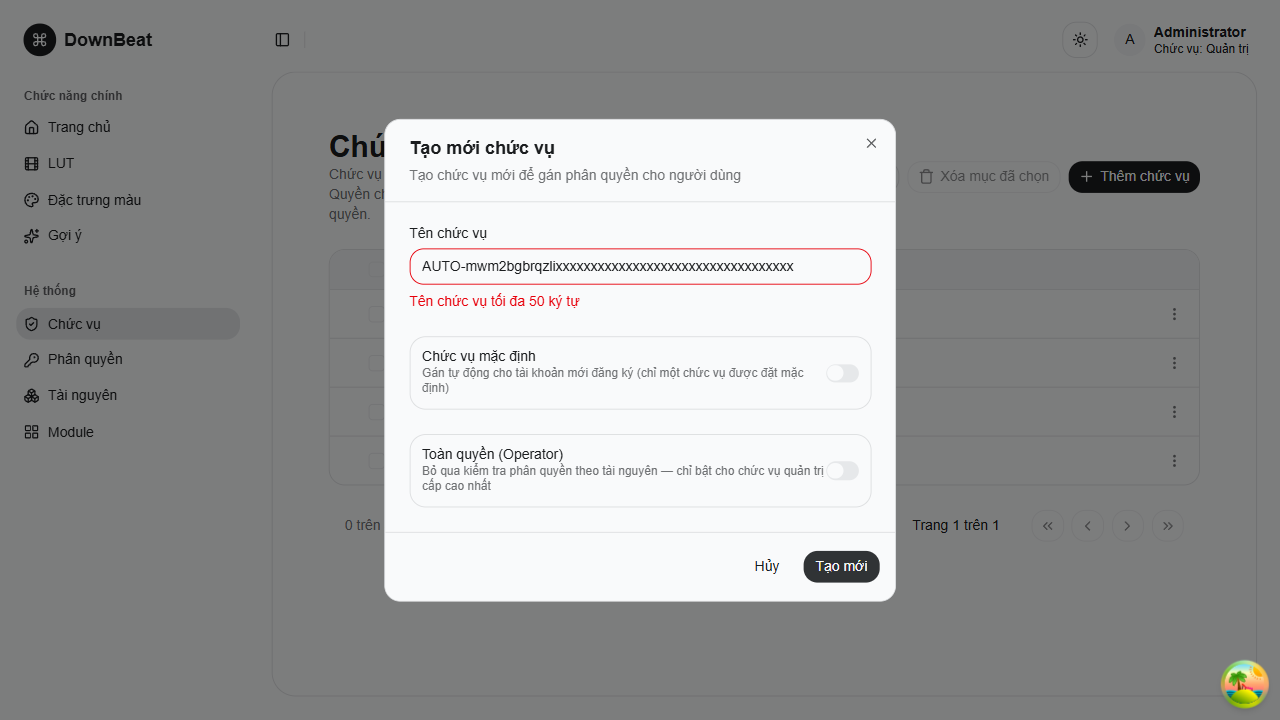
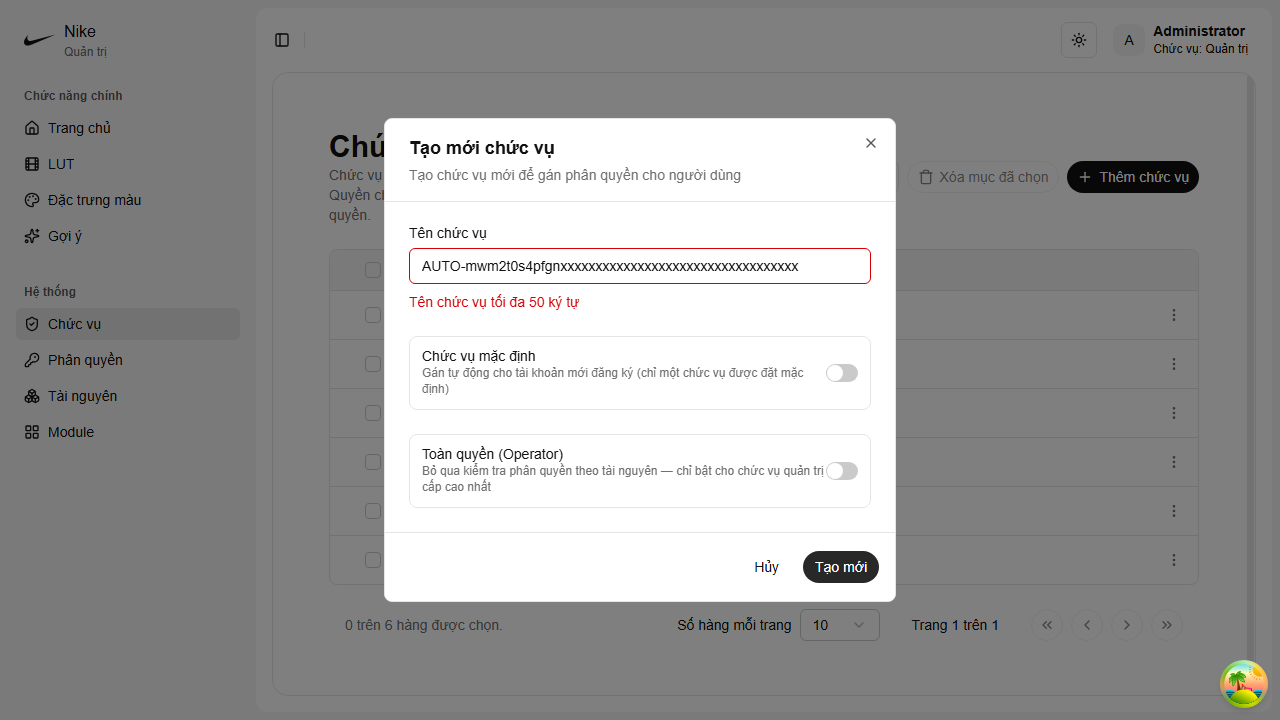
feat(khung-automation): đổi giao diện đăng nhập và quản trị sang kiểu Nike
- Frontend: /login một cột ~460px, logo swoosh, ô nhập 56px, nút đen bo tròn; /admin logo
  swoosh "Nike / Quản trị", bộ màu đen / trắng / xám Nike + font Helvetica (lớp .nike-admin
  gắn lên <html> qua useNikeTheme, chỉ áp cho quản trị + đăng nhập). Giữ nguyên chữ giao diện.
- Kiểm thử: tests/admin 9/9 chromium; chromium + firefox + mobile-chrome 21 pass + 2 skip.
- Tài liệu: chụp lại 9 ảnh docs/chuc-nang/img/khung-automation/ theo giao diện mới.

Refs: plan/khung-automation.md

diff --git a/frontend/src/components/form/block/login-form.tsx b/frontend/src/components/form/block/login-form.tsx
@@ -63,65 +63,54 @@ export function LoginForm() {
   });
 
   return (
-    <div className="grid grid-cols-1 gap-12 md:grid-cols-2 md:gap-24">
-      <div className="flex flex-col space-y-8">
-        <h4 className="text-2xl font-bold tracking-tight md:text-3xl">Đăng nhập</h4>
+    <div className="nike-login space-y-6">
+      <div className="space-y-2">
+        <h4 className="text-[28px] leading-tight font-medium tracking-normal">Đăng nhập</h4>
+        <p className="text-muted-foreground text-base">Trang quản trị cửa hàng Nike.</p>
+      </div>
 
-        <form
-          onSubmit={(e) => {
-            e.preventDefault();
-            form.handleSubmit();
-          }}
-          className="space-y-6"
-        >
-          <FieldGroup className="gap-6">
-            {/* Email Field */}
-            <form.AppField name="identifier">
-              {(field) => (
-                <field.Input
-                  label="Email hoặc số điện thoại*"
-                  placeholder="vd: example@gmail.com hoặc 0987654321"
-                  description=""
-                />
-              )}
-            </form.AppField>
+      <form
+        onSubmit={(e) => {
+          e.preventDefault();
+          form.handleSubmit();
+        }}
+        className="space-y-6"
+      >
+        <FieldGroup className="gap-5">
+          <form.AppField name="identifier">
+            {(field) => (
+              <field.Input
+                label="Email hoặc số điện thoại*"
+                placeholder="vd: example@gmail.com hoặc 0987654321"
+                description=""
+              />
+            )}
+          </form.AppField>
 
-            {/* Password Field */}
-            <form.AppField name="password">
-              {(field) => <field.Password label="Mật khẩu*" description="" />}
-            </form.AppField>
+          <form.AppField name="password">
+            {(field) => <field.Password label="Mật khẩu*" description="" />}
+          </form.AppField>
 
-            {/* Remember Me Row */}
-            <div className="flex items-center">
-              <form.AppField name="rememberMe">
-                {(field) => (
-                  <div className="flex items-center space-x-2">
-                    <field.Checkbox label="Ghi nhớ đăng nhập" />
-                  </div>
-                )}
-              </form.AppField>
-            </div>
+          <form.AppField name="rememberMe">
+            {(field) => <field.Checkbox label="Ghi nhớ đăng nhập" />}
+          </form.AppField>
 
-            {/* Submit Button */}
+          <p className="text-muted-foreground text-xs leading-relaxed">
+            Hệ thống không hỗ trợ tự đăng ký. Quản trị viên sẽ phân quyền và cấp tài khoản cho bạn.
+          </p>
+
+          <div className="flex justify-end">
             <Button
               type="submit"
               size="lg"
-              className="h-12 w-full px-12 font-bold tracking-widest uppercase md:w-fit"
+              className="h-12 px-8 text-base font-medium"
               disabled={form.state.isSubmitting}
             >
               {form.state.isSubmitting ? "Đang đăng nhập..." : "Đăng nhập"}
             </Button>
-          </FieldGroup>
-        </form>
-      </div>
-
-      {/* Right Column: CTA */}
-      <div className="flex flex-col space-y-6 border-t pt-12 md:border-t-0 md:border-l md:pt-0 md:pl-24">
-        <h4 className="text-2xl font-bold tracking-tight md:text-3xl">Chưa có tài khoản?</h4>
-        <p className="text-muted-foreground leading-relaxed">
-          Hệ thống không hỗ trợ tự đăng ký. Quản trị viên sẽ phân quyền và cấp tài khoản cho bạn.
-        </p>
-      </div>
+          </div>
+        </FieldGroup>
+      </form>
     </div>
   );
 }

diff --git a/frontend/src/index.css b/frontend/src/index.css
@@ -125,6 +125,108 @@
   --sidebar-ring: var(--ring);
 }
 
+/*
+ * Bộ màu kiểu nike.com cho trang quản trị + đăng nhập (bật bằng hook `useNikeTheme`):
+ * đen #111111 / trắng, xám #707072 · #e5e5e5 · #f5f5f5, font Helvetica, nút bo tròn hẳn.
+ */
+.nike-admin {
+  --font-sans: "Helvetica Now Text", "Helvetica Neue", Helvetica, Arial, sans-serif;
+  --font-display: var(--font-sans);
+
+  --background: #ffffff;
+  --foreground: #111111;
+  --card: #ffffff;
+  --card-foreground: #111111;
+  --popover: #ffffff;
+  --popover-foreground: #111111;
+  --primary: #111111;
+  --primary-foreground: #ffffff;
+  --secondary: #f5f5f5;
+  --secondary-foreground: #111111;
+  --muted: #f5f5f5;
+  --muted-foreground: #707072;
+  --accent: #e5e5e5;
+  --accent-foreground: #111111;
+  --destructive: #d30005;
+  --destructive-foreground: #ffffff;
+  --border: #e5e5e5;
+  --input: #cacacb;
+  --ring: #111111;
+  --radius: 0.5rem;
+
+  --chart-1: #111111;
+  --chart-2: #707072;
+  --chart-3: #9e9ea0;
+  --chart-4: #cacacb;
+  --chart-5: #fa5400;
+
+  --sidebar-background: #f5f5f5;
+  --sidebar: #f5f5f5;
+  --sidebar-foreground: #111111;
+  --sidebar-primary: #111111;
+  --sidebar-primary-foreground: #ffffff;
+  --sidebar-accent: #e5e5e5;
+  --sidebar-accent-foreground: #111111;
+  --sidebar-border: #e5e5e5;
+  --sidebar-ring: #111111;
+}
+
+.nike-admin.dark {
+  --background: #111111;
+  --foreground: #ffffff;
+  --card: #1a1a1a;
+  --card-foreground: #ffffff;
+  --popover: #1a1a1a;
+  --popover-foreground: #ffffff;
+  --primary: #ffffff;
+  --primary-foreground: #111111;
+  --secondary: #28282a;
+  --secondary-foreground: #ffffff;
+  --muted: #28282a;
+  --muted-foreground: #9e9ea0;
+  --accent: #39393b;
+  --accent-foreground: #ffffff;
+  --destructive: #ee0005;
+  --destructive-foreground: #ffffff;
+  --border: #39393b;
+  --input: #4b4b4d;
+  --ring: #ffffff;
+
+  --chart-1: #ffffff;
+  --chart-2: #9e9ea0;
+  --chart-3: #707072;
+  --chart-4: #4b4b4d;
+  --chart-5: #fa5400;
+
+  --sidebar-background: #000000;
+  --sidebar: #000000;
+  --sidebar-foreground: #ffffff;
+  --sidebar-primary: #ffffff;
+  --sidebar-primary-foreground: #111111;
+  --sidebar-accent: #28282a;
+  --sidebar-accent-foreground: #ffffff;
+  --sidebar-border: #28282a;
+  --sidebar-ring: #ffffff;
+}
+
+/* Nút bo tròn hẳn như nike.com (nút icon thành hình tròn) */
+.nike-admin [data-slot="button"] {
+  border-radius: 9999px;
+}
+
+/* Trang đăng nhập: ô nhập cao 56px, viền xám bo 8px như form nike.com */
+.nike-login [data-slot="input"] {
+  height: 3.5rem;
+  border-radius: 0.5rem;
+  padding-inline: 1rem;
+  font-size: 1rem;
+}
+
+.nike-login [data-slot="input"] + [data-slot="button"] {
+  height: 3.5rem;
+  border-radius: 0 0.5rem 0.5rem 0;
+}
+
 @theme inline {
   --color-background: var(--background);
   --color-foreground: var(--foreground);

diff --git a/frontend/src/routes/_auth.tsx b/frontend/src/routes/_auth.tsx
@@ -1,7 +1,8 @@
 import { createFileRoute, Outlet, redirect } from "@tanstack/react-router";
-import { Command } from "lucide-react";
 
+import { NikeSwoosh } from "@/components/admin/nike-swoosh";
 import { ThemeToggle } from "@/components/layout/theme/theme-toggle";
+import { useNikeTheme } from "@/hooks/use-nike-theme";
 import { useAuthStore } from "@/lib/stores/auth";
 
 /** Layout cho các trang chưa đăng nhập (login). Đã có token thì vào thẳng trang quản trị. */
@@ -14,22 +15,20 @@ export const Route = createFileRoute("/_auth")({
   component: AuthLayout
 });
 
+/** Kiểu trang đăng nhập nike.com: nền trắng, một cột giữa rộng ~460px, logo trên tiêu đề. */
 function AuthLayout() {
+  useNikeTheme();
+
   return (
-    <div className="bg-muted/40 flex min-h-screen flex-col">
-      <header className="flex h-16 items-center justify-between px-6">
-        <div className="flex items-center gap-2 font-semibold">
-          <div className="bg-primary text-primary-foreground flex size-8 items-center justify-center rounded-lg">
-            <Command className="size-4" />
-          </div>
-          DownBeat
-        </div>
+    <div className="bg-background relative min-h-screen">
+      <div className="absolute top-4 right-4">
         <ThemeToggle />
-      </header>
-      <main className="flex flex-1 items-center justify-center px-4 py-10">
-        <div className="bg-background w-full max-w-5xl rounded-3xl border p-8 shadow-sm md:p-12">
-          <Outlet />
+      </div>
+      <main className="mx-auto w-full max-w-[460px] px-4 pt-8 pb-16 sm:pt-10">
+        <div className="mb-8 flex items-center gap-3" aria-label="Nike">
+          <NikeSwoosh className="h-6" />
         </div>
+        <Outlet />
       </main>
     </div>
   );

diff --git a/frontend/src/components/admin/sidebar/admin-sidebar.tsx b/frontend/src/components/admin/sidebar/admin-sidebar.tsx
@@ -1,7 +1,8 @@
 import * as React from "react";
-import { Boxes, Command, Film, House, KeyRound, LayoutGrid, Palette, ShieldCheck, Sparkles } from "lucide-react";
+import { Boxes, Film, House, KeyRound, LayoutGrid, Palette, ShieldCheck, Sparkles } from "lucide-react";
 import { Link } from "@tanstack/react-router";
 
+import { NikeSwoosh } from "@/components/admin/nike-swoosh";
 import { AdminMain, type AdminNavItem } from "@/components/admin/sidebar/admin-main";
 import {
   Sidebar,
@@ -48,11 +49,12 @@ export function AdminSidebar({ ...props }: React.ComponentProps<typeof Sidebar>)
           <SidebarMenuItem>
             <SidebarMenuButton size="lg" asChild>
               <Link to="/admin">
-                <div className="bg-sidebar-primary text-sidebar-primary-foreground flex aspect-square size-8 items-center justify-center rounded-lg">
-                  <Command className="size-4" />
+                <div className="text-sidebar-foreground flex aspect-square size-8 items-center justify-center">
+                  <NikeSwoosh className="h-3.5" />
                 </div>
-                <div className="grid flex-1 text-left text-lg leading-tight">
-                  <span className="font-semibold">DownBeat</span>
+                <div className="grid flex-1 text-left leading-tight">
+                  <span className="text-base font-medium">Nike</span>
+                  <span className="text-muted-foreground text-xs">Quản trị</span>
                 </div>
               </Link>
             </SidebarMenuButton>

diff --git a/frontend/src/components/admin/admin-layout.tsx b/frontend/src/components/admin/admin-layout.tsx
@@ -11,9 +11,11 @@ import { AdminLoadError } from "@/components/admin/admin-load-error";
 import { AdminLoading } from "@/components/admin/admin-loading";
 import { ThemeToggle } from "@/components/layout/theme/theme-toggle";
 import { useAuthStore } from "@/lib/stores/auth";
+import { useNikeTheme } from "@/hooks/use-nike-theme";
 
 /** Khung giao diện dùng chung (sidebar + header + canvas bo góc) cho nhóm route /admin. */
 export function AdminLayout() {
+  useNikeTheme();
   const { data: me, isLoading, isError, isFetching, refetch } = useQuery(meQueryOptions);
   // Token bị xoá khi đang ở trong trang quản trị (hết phiên, đăng xuất ở tab khác) => về trang đăng nhập
   const accessToken = useAuthStore((s) => s.accessToken);
@@ -54,7 +56,7 @@ export function AdminLayout() {
         </header>
         {/* Main Content Area with rounded canvas effect */}
         <main className="flex-1 overflow-hidden px-4 pb-4">
-          <div className="bg-background h-full w-full overflow-hidden rounded-3xl border shadow-sm">
+          <div className="bg-background h-full w-full overflow-hidden rounded-2xl border">
             <ScrollArea className="h-full w-full [&_[data-slot=scroll-area-viewport]>div]:!block">
               <div className="p-6 md:p-8">
                 <Outlet />

diff --git a/frontend/src/components/admin/nike-swoosh.tsx b/frontend/src/components/admin/nike-swoosh.tsx
@@ -1,0 +1,16 @@
+import { cn } from "@/lib/utils";
+
+/** Logo swoosh (dùng cho mục đích học tập, chạy local). Màu theo `currentColor`. */
+export function NikeSwoosh({ className }: { className?: string }) {
+  return (
+    <svg
+      viewBox="3 8.5 18.2 6.7"
+      fill="currentColor"
+      aria-hidden="true"
+      focusable="false"
+      className={cn("h-5 w-auto", className)}
+    >
+      <path d="M21 8.719L7.836 14.303C6.74 14.768 5.818 15 5.075 15c-.836 0-1.445-.295-1.819-.884-.485-.76-.273-1.982.559-3.272.494-.754 1.122-1.446 1.734-2.108-.144.234-1.415 2.349-.025 3.345.275.2.666.298 1.147.298.386 0 .829-.063 1.316-.19L21 8.719z" />
+    </svg>
+  );
+}

diff --git a/frontend/src/hooks/use-nike-theme.ts b/frontend/src/hooks/use-nike-theme.ts
@@ -1,0 +1,13 @@
+import { useEffect } from "react";
+
+/**
+ * Bật bộ màu / font kiểu Nike (`.nike-admin` trong index.css) cho trang quản trị và đăng nhập.
+ * Gắn lên <html> để cả dialog, dropdown, toast (render qua portal ra ngoài layout) cũng nhận.
+ */
+export function useNikeTheme() {
+  useEffect(() => {
+    const root = document.documentElement;
+    root.classList.add("nike-admin");
+    return () => root.classList.remove("nike-admin");
+  }, []);
+}
